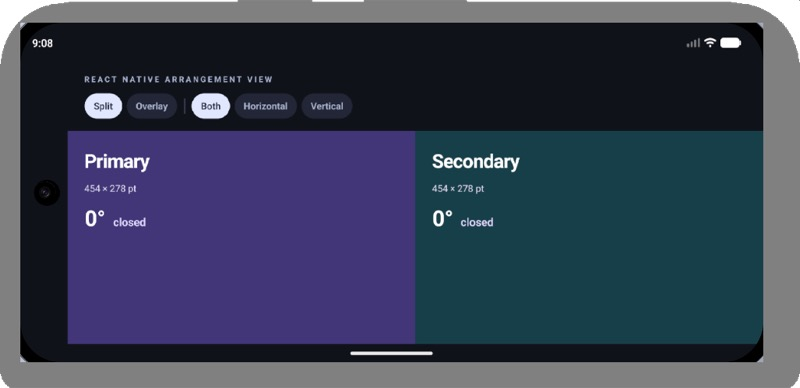
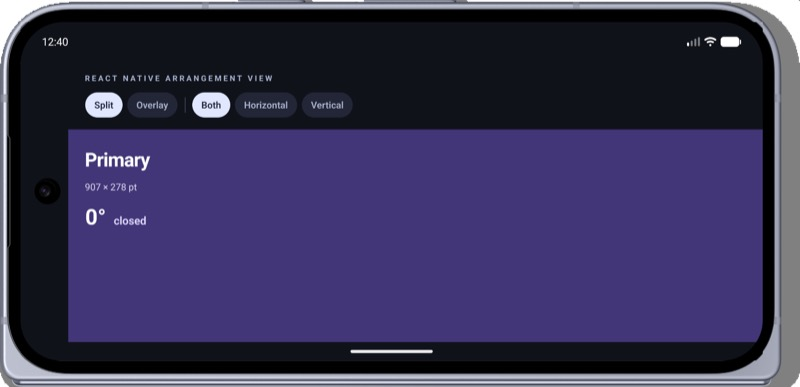
Keep Android panes out of compact-height windows
- Require at least 480 dp of height for side-by-side panes
- Update comparison captures and document the landscape behavior

diff --git a/tests/arrange.test.ts b/tests/arrange.test.ts
@@ -47,14 +47,34 @@ const tabletop: Geometry = {
 const split = { arrangement: 'split', axes: 'both' } as const;
 const overlay = { arrangement: 'overlay', axes: 'both' } as const;
 
-test('an expanded-width window puts the panes side by side, however tall it is', () => {
+test('an expanded-width window puts the panes side by side', () => {
   assert.deepEqual(arrange(inner, split), {
     primary: { left: 0, top: 0, width: 425, height: 880 },
     secondary: { left: 425, top: 0, width: 425, height: 880 },
   });
-  assert.deepEqual(arrange(coverLandscape, split), {
-    primary: { left: 0, top: 0, width: 480, height: 440 },
-    secondary: { left: 480, top: 0, width: 480, height: 440 },
+  // From 480 dp tall, the end of compact height.
+  const shortest = window(960, 480);
+  assert.deepEqual(arrange(shortest, split), {
+    primary: { left: 0, top: 0, width: 480, height: 480 },
+    secondary: { left: 480, top: 0, width: 480, height: 480 },
+  });
+});
+
+test('a compact-height window, such as a phone in landscape, shows one pane', () => {
+  for (const axes of ['both', 'horizontal', 'vertical'] as const) {
+    assert.deepEqual(arrange(coverLandscape, { ...split, axes }), {
+      primary: full(coverLandscape),
+      secondary: null,
+    });
+  }
+  const mediumLandscape = window(700, 440);
+  assert.deepEqual(
+    arrange(mediumLandscape, { ...split, twoPanesOnMediumWidth: true }),
+    { primary: full(mediumLandscape), secondary: null }
+  );
+  assert.deepEqual(arrange(coverLandscape, overlay), {
+    primary: full(coverLandscape),
+    secondary: full(coverLandscape),
   });
 });
 

diff --git a/src/arrange.ts b/src/arrange.ts
@@ -50,6 +50,7 @@ type Axis = 'horizontal' | 'vertical';
 
 // Material's window size class breakpoints.
 const MEDIUM_WIDTH = 600;
+const COMPACT_HEIGHT = 480;
 const EXPANDED_WIDTH = 840;
 const EXPANDED_HEIGHT = 900;
 
@@ -59,7 +60,9 @@ const EXPANDED_HEIGHT = 900;
  * It follows Material's pane scaffold (calculatePaneScaffoldDirective). The
  * window, not the arrangement, decides how many panes fit: two side by side
  * from an expanded width, and two stacked in tabletop or in a single-column
- * window with expanded height. A hinge the policy avoids decides the axis and
+ * window with expanded height. A compact-height window, such as a phone in
+ * landscape, gets no columns: Android's window size class guidance calls two
+ * panes impractical there, though Material's scaffold checks only the width. A hinge the policy avoids decides the axis and
  * separates the panes by `hingeGap` around it. A split that doesn't fit, or
  * that `axes` excludes, shows only the primary pane.
  */
@@ -78,8 +81,9 @@ export function arrange(
   const tabletop =
     fold?.halfOpened === true && fold.orientation === 'horizontal';
   const twoColumns =
-    window.width >= EXPANDED_WIDTH ||
-    (twoPanesOnMediumWidth && window.width >= MEDIUM_WIDTH);
+    window.height >= COMPACT_HEIGHT &&
+    (window.width >= EXPANDED_WIDTH ||
+      (twoPanesOnMediumWidth && window.width >= MEDIUM_WIDTH));
   const twoRows = tabletop || (!twoColumns && window.height >= EXPANDED_HEIGHT);
   const fits = (axis: Axis) =>
     (axes === 'both' || axes === axis) &&

diff --git a/README.md b/README.md
@@ -40,7 +40,7 @@ export function PlayerScreen() {
 | `observeHinge`          | `true`              | Enables observation for hooks inside this arrangement; disabling it does not disable adaptive layout                                       |
 | `hingePolicy`           | `"avoidSeparating"` | Android only. The hinges the panes keep clear of: `"avoidSeparating"` a half-open one, `"alwaysAvoid"` a flat one too, `"neverAvoid"` none |
 | `hingeGap`              | `24`                | Android only. The space in dp between the panes around an avoided hinge, never narrower than the hinge itself                              |
-| `twoPanesOnMediumWidth` | `false`             | Android only. Allows two panes side by side in a window 600–839 dp wide                                                                    |
+| `twoPanesOnMediumWidth` | `false`             | Android only. Allows two panes side by side in a window 600–839 dp wide, unless it is under 480 dp tall                                    |
 
 `ArrangementView.Primary` and `ArrangementView.Secondary` are slot markers: they render no view of their own and do not affect layout. Put your own pane component inside each one. Both must be direct children of `ArrangementView`, in either order. Any other direct child is ignored, and a missing, duplicated, or unrecognized child logs a warning in development builds.
 
@@ -64,7 +64,7 @@ On iOS, as observed from SwiftUI on iOS 27.1:
 
 On Android:
 
-- The window decides how many panes fit: two side by side from 840 dp wide, or from 600 dp with `twoPanesOnMediumWidth`. Two stacked fit in tabletop posture, or in a single-column window at least 900 dp tall.
+- The window decides how many panes fit: two side by side from 840 dp wide, or from 600 dp with `twoPanesOnMediumWidth`, and never in a window under 480 dp tall, such as a phone in landscape, which Android's guidance considers too short for two panes. Two stacked fit in tabletop posture, or in a single-column window at least 900 dp tall.
 - A hinge that `hingePolicy` avoids decides the axis, and the panes are separated by `hingeGap` centred on the crease. When that split doesn't fit, or `axes` excludes it, the primary pane shows alone on the leading side of the hinge, or above it.
 - Otherwise the panes halve the arrangement and touch.
 - `overlay` puts both panes at full size, primary in front. An avoided hinge separates them, as on iOS.
@@ -72,13 +72,13 @@ On Android:
 
 Where the platforms differ:
 
-| Situation                                                     | iOS                                                              | Android                                                                                          |
-| ------------------------------------------------------------- | ---------------------------------------------------------------- | ------------------------------------------------------------------------------------------------ |
-| Phone in landscape, such as a closed foldable turned sideways | Primary only, except on models with a regular width in landscape | Side by side when the window is at least 840 dp wide, as the Pixel 10 Pro Fold's cover screen is |
-| No hinge, two panes fit both ways                             | The arrangement's longer side is halved                          | Side by side, whatever the arrangement's shape                                                   |
-| Space around a half-open hinge                                | 20 pt on each side, fixed                                        | `hingeGap`, 24 dp by default; `hingePolicy` can include a flat hinge or ignore hinges            |
-| A window 600–839 dp wide in book posture                      | Decided by size classes                                          | Primary only, beside the hinge, unless `twoPanesOnMediumWidth`                                   |
-| A half-open hinge whose split `axes` excludes                 | Primary only, at full size across the hinge                      | Primary only, on the leading or top side of the hinge                                            |
+| Situation                                     | iOS                                                  | Android                                                                               |
+| --------------------------------------------- | ---------------------------------------------------- | ------------------------------------------------------------------------------------- |
+| Plus / Pro Max iPhones in landscape           | Side by side: they have a regular width in landscape | Primary only: the window is under 480 dp tall, as on every phone in landscape         |
+| No hinge, two panes fit both ways             | The arrangement's longer side is halved              | Side by side, whatever the arrangement's shape                                        |
+| Space around a half-open hinge                | 20 pt on each side, fixed                            | `hingeGap`, 24 dp by default; `hingePolicy` can include a flat hinge or ignore hinges |
+| A window 600–839 dp wide in book posture      | Decided by size classes                              | Primary only, beside the hinge, unless `twoPanesOnMediumWidth`                        |
+| A half-open hinge whose split `axes` excludes | Primary only, at full size across the hinge          | Primary only, on the leading or top side of the hinge                                 |
 
 ### useHingeChange
 
@@ -127,7 +127,7 @@ Android has no fallback mode: a device without a fold is arranged as flat, and i
 
 ## Platform comparison
 
-Captured on September 24, 2026 from the example app on two simulators: the iOS 27.1 iPhone Duo and the Pixel 10 Pro Fold emulator (Android API 37).
+Captured on September 24, 2026 from the example app on two simulators: the iOS 27.1 iPhone Duo and the Pixel 10 Pro Fold emulator (Android API 37). The Android `split` captures of the closed device turned sideways were retaken on September 25, after Android stopped showing two panes in windows under 480 dp tall.
 Half-open was a 134° hinge on the iPhone Duo and 128° on the Pixel.
 Turned right and turned left mean the device was rotated 90° clockwise or counterclockwise from portrait; the frames show how it was held.
 The two devices have different screen sizes, so the pane sizes are not comparable between them; the placement is.
@@ -297,14 +297,14 @@ Pane sizes are in points on iOS and dp on Android. ⚠ marks a placement that
 | Closed    | Portrait     | `both`       | stacked: 262 / 262               | stacked: 398 / 397                           |
 | Closed    | Portrait     | `horizontal` | primary only: 382 × 523          | primary only: 443 × 795                      |
 | Closed    | Portrait     | `vertical`   | stacked: 262 / 262               | stacked: 398 / 397                           |
-| Closed    | Turned right | `both`       | primary only: 594 × 348          | side by side: 454 \| 454 ⚠                  |
-| Closed    | Turned right | `horizontal` | primary only: 594 × 348          | side by side: 454 \| 454 ⚠                  |
+| Closed    | Turned right | `both`       | primary only: 594 × 348          | primary only: 907 × 278                      |
+| Closed    | Turned right | `horizontal` | primary only: 594 × 348          | primary only: 907 × 278                      |
 | Closed    | Turned right | `vertical`   | primary only: 594 × 348          | primary only: 907 × 278                      |
-| Closed    | Upside down  | `both`       | primary only: 594 × 348          | side by side: 454 \| 454 ⚠                  |
-| Closed    | Upside down  | `horizontal` | primary only: 594 × 348          | side by side: 454 \| 454 ⚠                  |
+| Closed    | Upside down  | `both`       | primary only: 594 × 348          | primary only: 907 × 278                      |
+| Closed    | Upside down  | `horizontal` | primary only: 594 × 348          | primary only: 907 × 278                      |
 | Closed    | Upside down  | `vertical`   | primary only: 594 × 348          | primary only: 907 × 278                      |
-| Closed    | Turned left  | `both`       | primary only: 594 × 348          | side by side: 454 \| 454 ⚠                  |
-| Closed    | Turned left  | `horizontal` | primary only: 594 × 348          | side by side: 454 \| 454 ⚠                  |
+| Closed    | Turned left  | `both`       | primary only: 594 × 348          | primary only: 907 × 278                      |
+| Closed    | Turned left  | `horizontal` | primary only: 594 × 348          | primary only: 907 × 278                      |
 | Closed    | Turned left  | `vertical`   | primary only: 594 × 348          | primary only: 907 × 278                      |
 | Half-open | Portrait     | `both`       | side by side: 456 \| 371, 40 gap | side by side: 414 \| 414, 24 gap             |
 | Half-open | Portrait     | `horizontal` | side by side: 456 \| 371, 40 gap | side by side: 414 \| 414, 24 gap             |
